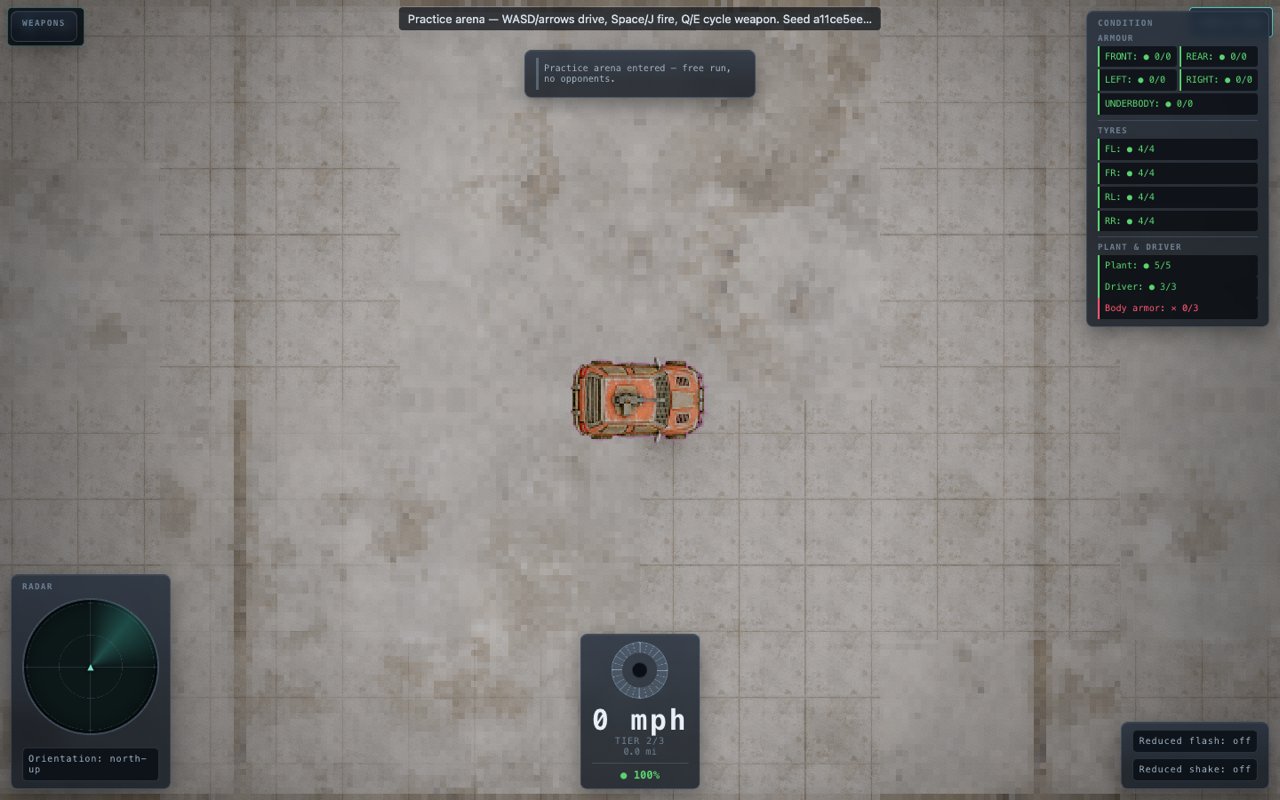
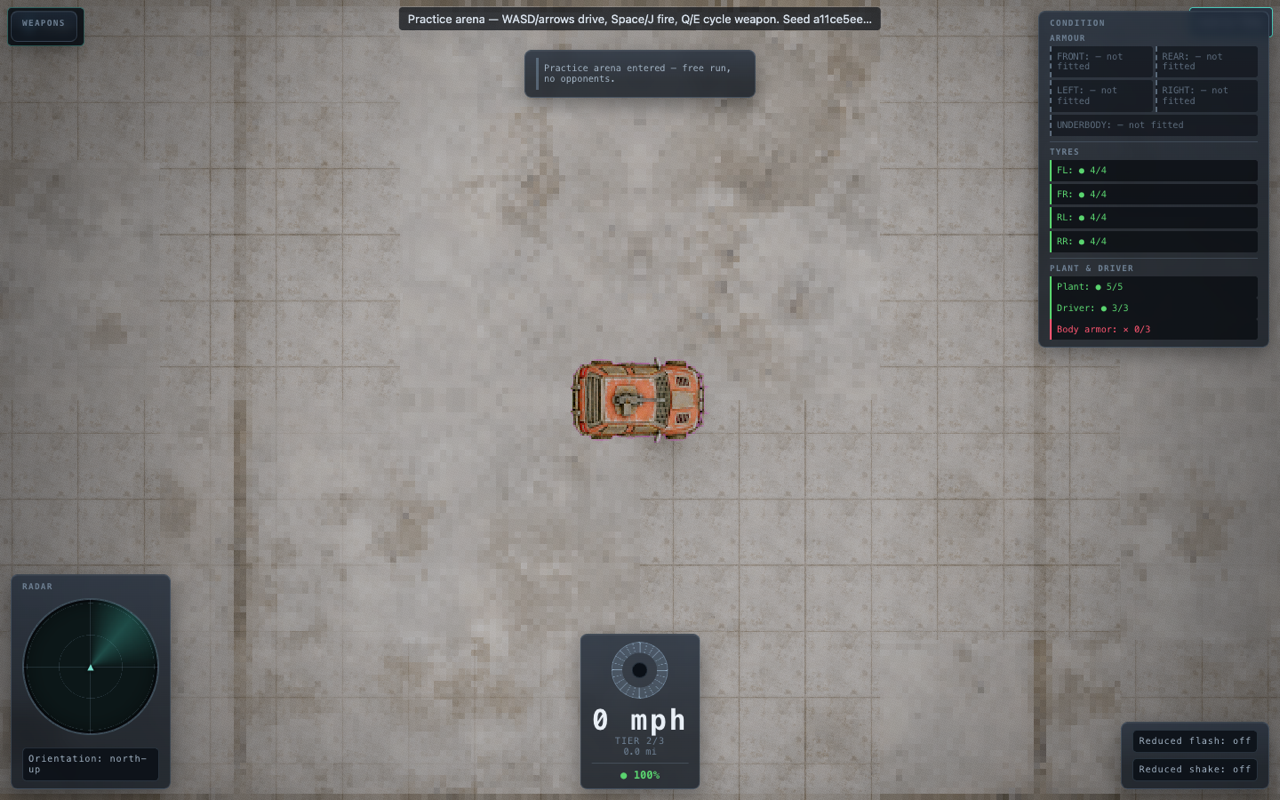
fix(ctor): say WHAT to do, not just that something is required 📋
Iteration 7. Reviewer: bytedance-seed/seed-1.6-flash.

ONBOARDING COPY
- A review called the first-run prompt "small, unhighlighted" and said a new
  player "may not know to add weapons/armor". Fair — I had deliberately made it
  quiet in iteration 1 when I replaced the red violation panel, and overshot:
  the point was to stop the screen OPENING in a failure state, not to hide the
  instruction. The damage classification was never changed; only the framing.
- It is now an accented panel with a bold headline and THREE CONCRETE STEPS —
  name it, add armour, mount a weapon — because "something is required" is a
  worse onboarding message than "do these three things".
- Fixed a real trap while there: the step text was originally set off
  `appendChild`'s return value, which the real DOM returns and the builder's
  test double does not. Setting the text before appending is the only form that
  behaves the same in both, and the failure otherwise surfaces as
  "Cannot set properties of undefined".

A FINDING THAT IS WRONG
- Reported the arena banner as "cut off mid-sentence ... hides critical control
  instructions". Checked the full-resolution frame: it reads in full —
  "Practice arena — WASD/arrows drive, Space/J fire, Q/E cycle weapon. Seed
  a11ce5ee…". The trailing ellipsis on the seed read as truncation. This is the
  fifth review to misread a full-resolution frame, and the second to do it
  about a change made in the immediately preceding iteration.
[…]

Changed region(s): [[0.8125, 0.0, 1.0, 0.4688]]

diff --git a/src/ui/builder.ts b/src/ui/builder.ts
@@ -813,9 +813,26 @@ function buildRightPane(state: BuilderState, context: BuilderContext): HTMLEleme
   // name, or moved a single slider, the panel switches to the normal violation
   // list and starts behaving like a real feedback surface.
   if (isPristineBuilder(state)) {
-    const prompt = document.createElement('p');
+    const prompt = document.createElement('div');
     prompt.className = 'sm-builder__legality-prompt';
-    prompt.textContent = t('ui.builder.legalityPrompt');
+    const promptText = document.createElement('strong');
+    promptText.textContent = t('ui.builder.legalityPrompt');
+    prompt.appendChild(promptText);
+    // The steps, because "something is required" is a worse onboarding message
+    // than "do these three things" — a review of the real frame said a new
+    // player "may not know to add weapons/armor", and the fix is to say so.
+    const steps = document.createElement('ol');
+    for (const key of ['ui.builder.legalityStepName', 'ui.builder.legalityStepArmor', 'ui.builder.legalityStepWeapon'] as const) {
+      // The text is set BEFORE appending rather than off appendChild's return
+      // value: the real DOM returns the appended node, but the builder's test
+      // double returns void, so relying on it is a difference between the
+      // double and the browser that only shows up as a confusing
+      // "Cannot set properties of undefined".
+      const item = document.createElement('li');
+      item.textContent = t(key);
+      steps.appendChild(item);
+    }
+    prompt.appendChild(steps);
     legality.appendChild(prompt);
   } else if (derived.violations.length === 0) {
     const ok = document.createElement('div');

diff --git a/src/ui/builder.css b/src/ui/builder.css
@@ -352,12 +352,31 @@
 .sm-builder__legality-prompt {
   margin: 0;
   padding: var(--ui-space-4) var(--ui-space-5);
-  border: 1px dashed var(--ui-line);
+  border: 1px solid var(--ui-line-accent);
+  border-left: 3px solid var(--ui-accent-strong);
   border-radius: var(--ui-radius-md);
-  background: var(--ui-surface-2);
+  background: color-mix(in srgb, var(--ui-accent) 9%, var(--ui-surface-2));
+  color: var(--ui-ink);
+  font-size: var(--ui-text-base);
+  font-weight: 500;
+  line-height: var(--ui-leading-normal);
+}
+
+/* The step list. A vision review called this text "small, unhighlighted" and
+ * said a new player "may not know to add weapons/armor" — fair. This is the
+ * only instruction the constructor gives before the player has touched
+ * anything, so it carries the whole onboarding, and it now says WHAT to do
+ * rather than only that something is required. */
+.sm-builder__legality-prompt ol {
+  margin: var(--ui-space-3) 0 0;
+  padding-left: 1.4em;
   color: var(--ui-ink-muted);
   font-size: var(--ui-text-sm);
-  line-height: var(--ui-leading-normal);
+  font-weight: 400;
+}
+
+.sm-builder__legality-prompt li + li {
+  margin-top: var(--ui-space-2);
 }
 
 /* --- live vehicle schematic -----------------------------------------------

diff --git a/.opencode/ralph-loop.local.md b/.opencode/ralph-loop.local.md
@@ -1,26 +1,35 @@
 ---
 active: true
-iteration: 5
+iteration: 6
 maxIterations: 100
+sessionId: ses_f14a7ff23ffeCvOeqyAPPjegV6
 ---
 
 lets do a infiniate improving loop each time ask a random state of the art vision enabled flash model (gemini 3.8 flash, latest glm, etc) to find 5 things to improve with reasons and suggestions take all feedback create milestones phases and todos. ask for feedback on all key elements of this game from an advisorial reviewer. provide them with any items they need to conduct a detailed review.  execute the plan then restart the loop with a new reviewer until you have asked all the vision enabled latest models on open router.  do not stop until i tell you to. 
 
 ## Log
 
-Reviewers asked (5 of 82 vision models):
+Reviewers asked (6 of 82 vision models):
 1. google/gemini-3.8-flash      -> title wordmark, constructor (3 bugs incl. one I missed), city motorway-through-wall
 2. openai/gpt-5.4-mini         -> radar instrument, condition dashboard, player/opponent contrast, title hierarchy
 3. qwen/qwen3.5-122b-a10b      -> road lane markings (carried x2), preview/menu contrast, radar rings (claim WRONG - checked)
-4. deepseek/deepseek-v4.1-flash -> car silhouette in preview, empty-feed pill + route progress bar, radar weight
-5. inclusionai/ling-3.0-flash-vl -> seed printed twice (FIXED); wall/radar/constructor claims all WRONG at full res
+4. deepseek/deepseek-v4.1-flash -> car silhouette, empty-feed pill + route progress bar, radar weight
+5. inclusionai/ling-3.0-flash-vl -> seed printed twice (FIXED); wall/radar/constructor claims WRONG at full res
                                   -> root cause: 900px review images. Raised to 1280px.
+6. z-ai/glm-5.3-flash          -> unfitted armour shown GREEN (FIXED); LEGALITY pushed off-screen by MY
+                                  iteration-2 preview growth (FIXED); ground blockiness (nearest sampler, recorded)
 
-RECURRING FALSE-FINDING CLASS: reviewers report radar rings/sweep, the city wall
-and the constructor preview as missing/empty. In every case checked at full
-resolution they are present. Cause was review-image downscale, not the UI.
-A first fix attempt for the radar (mask-image rim ticks) corrupted the CSS and
-stripped the chrome off every HUD panel - caught in a screenshot, reverted.
+RECURRING FALSE-FINDING CLASS: radar rings/sweep, city wall, constructor preview
+reported "missing/empty" - all PRESENT at full res. Cause: review-image downscale.
+Fixed at source by raising review captures 900px -> 1280px.
+A first radar fix (mask-image rim ticks) corrupted CSS and stripped chrome off
+every HUD panel - caught in a screenshot, reverted, redone as weight-only.
+
+DEFERRED (real, documented, not bugs):
+- Ground blockiness: NEAREST sampler is REQUIRED (no atlas gutters, linear would
+  bleed). Real fix = dedicated linear+repeat ground texture (load-time change).
+- City daylight grade (my 0.6 ground tint is why it reads dim), street network,
+  title-menu composition, 10 empty weapon rows.
 
 Tooling: `node tools/review.mjs --list | --model <id> --shots <dir>`
 Reviews: .opencode/reviews/
